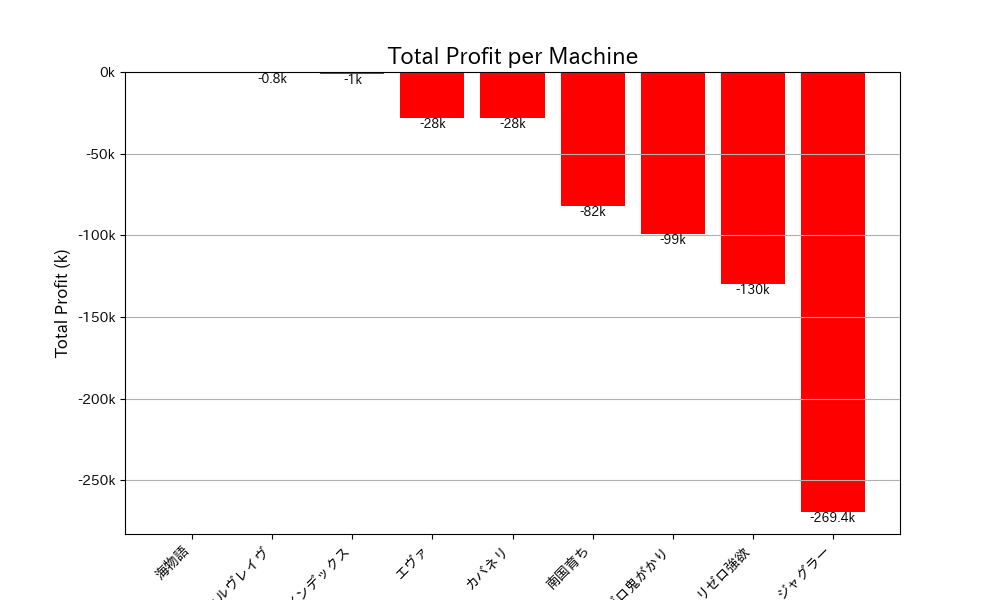
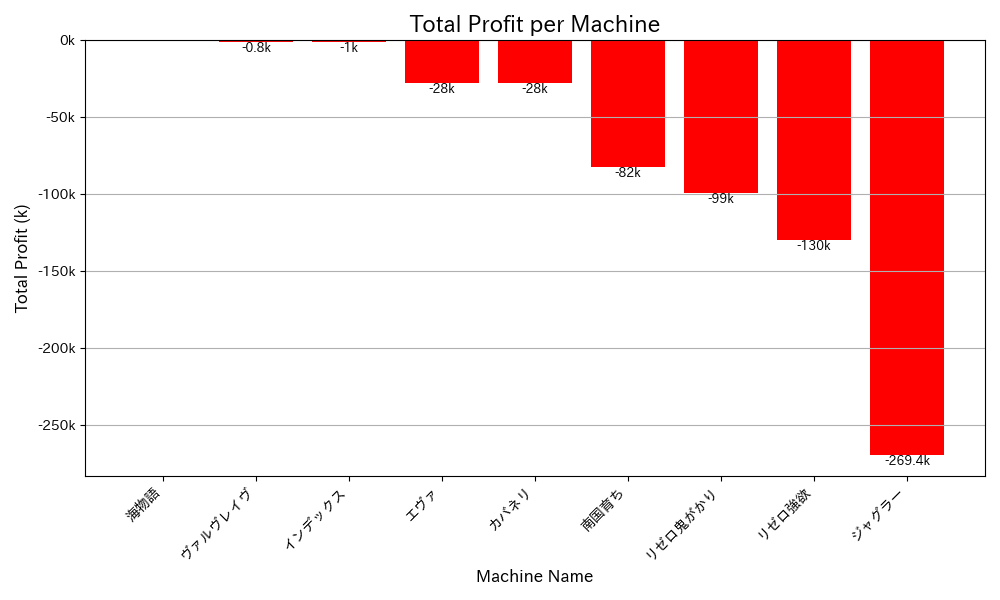
before change

diff --git a/summary_data.py b/summary_data.py
@@ -16,24 +16,39 @@ df['profit'] = df['return'] - df['investment']
 total_profit = df['profit'].sum()
 
 # 機種ごと収支の計算
-machine_profits = df.groupby('machine_name')['profit'].sum().reset_index()
-# JSONに変換しやすいように辞書型に変換: {'machine_name': profit, ...}
-machine_profits_dict = machine_profits.set_index('machine_name')['profit'].apply(int).to_dict()
+machine_summary = df.groupby('machine_name')[['investment', 'return', 'profit']].sum()
 
 # 月ごと収支の計算
 df['year_month'] = df['date'].dt.to_period('M') # 例: '2024-09' のような形式
-monthly_profit_series = df.groupby('year_month')['profit'].sum()
+monthly_summary = df.groupby('year_month')[['investment', 'return', 'profit']].sum()
 
 # JSON出力用のデータを作成
-# PandasのPeriodIndexを文字列に変換してから辞書に変換します
-monthly_profit_dict = monthly_profit_series.rename(index=lambda x: str(x)).to_dict()
+# 月別サマリーをJSONフレンドリーなリスト形式に変換
+monthly_data_list = []
+for month, row in monthly_summary.iterrows():
+    monthly_data_list.append({
+        'month': str(month),
+        'investment': int(row['investment']),
+        'return': int(row['return']),
+        'profit': int(row['profit'])
+    })
+    
+# 機種別サマリーをJSONフレンドリーなリスト形式に変換
+machine_data_list = []
+for machine, row in machine_summary.iterrows():
+    machine_data_list.append({
+        'machine': machine,
+        'investment': int(row['investment']),
+        'return': int(row['return']),
+        'profit': int(row['profit'])
+    })
 
 # 集計結果をJSONファイルとして出力 (Webページで読み込む用)
 summary_data = {
     'total_profit': int(total_profit),
     'num_of_sessions': len(df),
-    'machine_profits': machine_profits_dict,
-    'monthly_profits': monthly_profit_dict
+    'machine_profits': machine_data_list,
+    'monthly_profits': monthly_data_list
 }
 
 with open('data/summary.json', 'w', encoding='utf-8') as f:
@@ -92,7 +107,8 @@ plt.close()
 
 # 機種ごとの収支の棒グラフを生成
 # 収支の大きい順にソート
-machine_profits_df = machine_profits.sort_values(by='profit', ascending=False)
+machine_summary = machine_summary.reset_index()
+machine_profits_df = machine_summary.sort_values(by='profit', ascending=False)
 fig_bar, ax_bar = plt.subplots(figsize=(10, 6))
 # 収益がプラスかマイナスかで色分け
 colors = ['green' if p >= 0 else 'red' for p in machine_profits_df['profit']]
@@ -118,6 +134,7 @@ for bar in bars:
                     ha='center', 
                     fontsize=9, 
                     color='black')
+plt.tight_layout()
 plt.savefig('data/machine_profit_bar.png')
 plt.close()
 
@@ -127,9 +144,9 @@ plt.figure(figsize=(12, 7))
 
 # 月別収支データを棒グラフとしてプロット
 # monthly_profit_seriesは既に上の手順で計算済みと仮定
-monthly_profit_series.plot(
+monthly_summary['profit'].plot(
     kind='bar',
-    color=[ 'green' if p >= 0 else 'red' for p in monthly_profit_series.values ], # 収益がプラスかマイナスかで色分け
+    color=[ 'green' if p >= 0 else 'red' for p in monthly_summary['profit'].values ], # 収益がプラスかマイナスかで色分け
     title='Total Profit per Month'
 )
 
@@ -142,7 +159,7 @@ plt.ylabel('Profit (Thousands of Yen)')
 plt.grid(axis='y') # 横線のみ表示
 plt.xticks(rotation=45, ha='right') # 月名が重ならないように傾ける
 plt.tight_layout()
-plt.savefig('dist/monthly_bar_graph.png')
+plt.savefig('data/monthly_bar_graph.png')
 plt.close()
 
 print("Data processing complete.")
